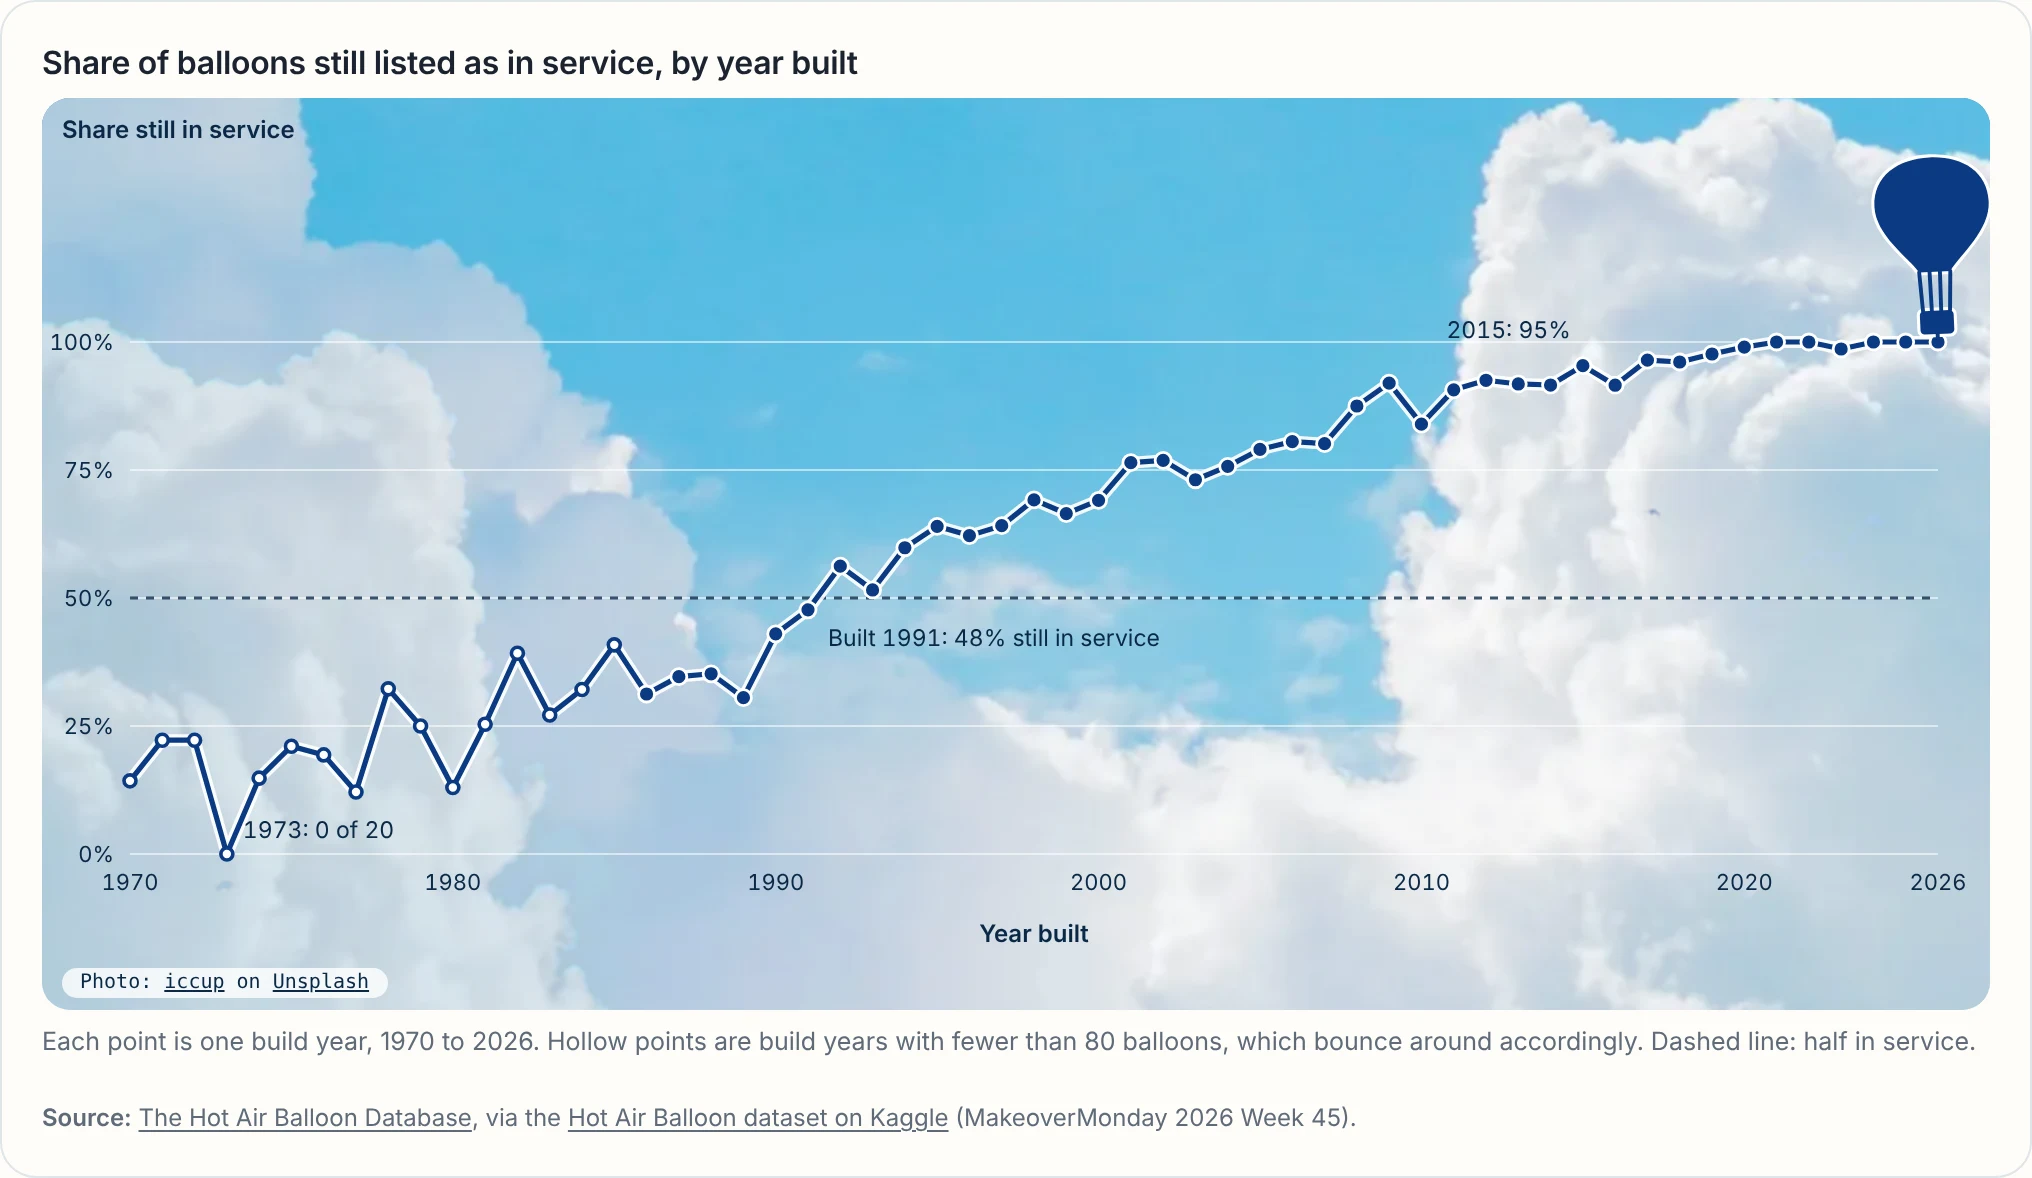
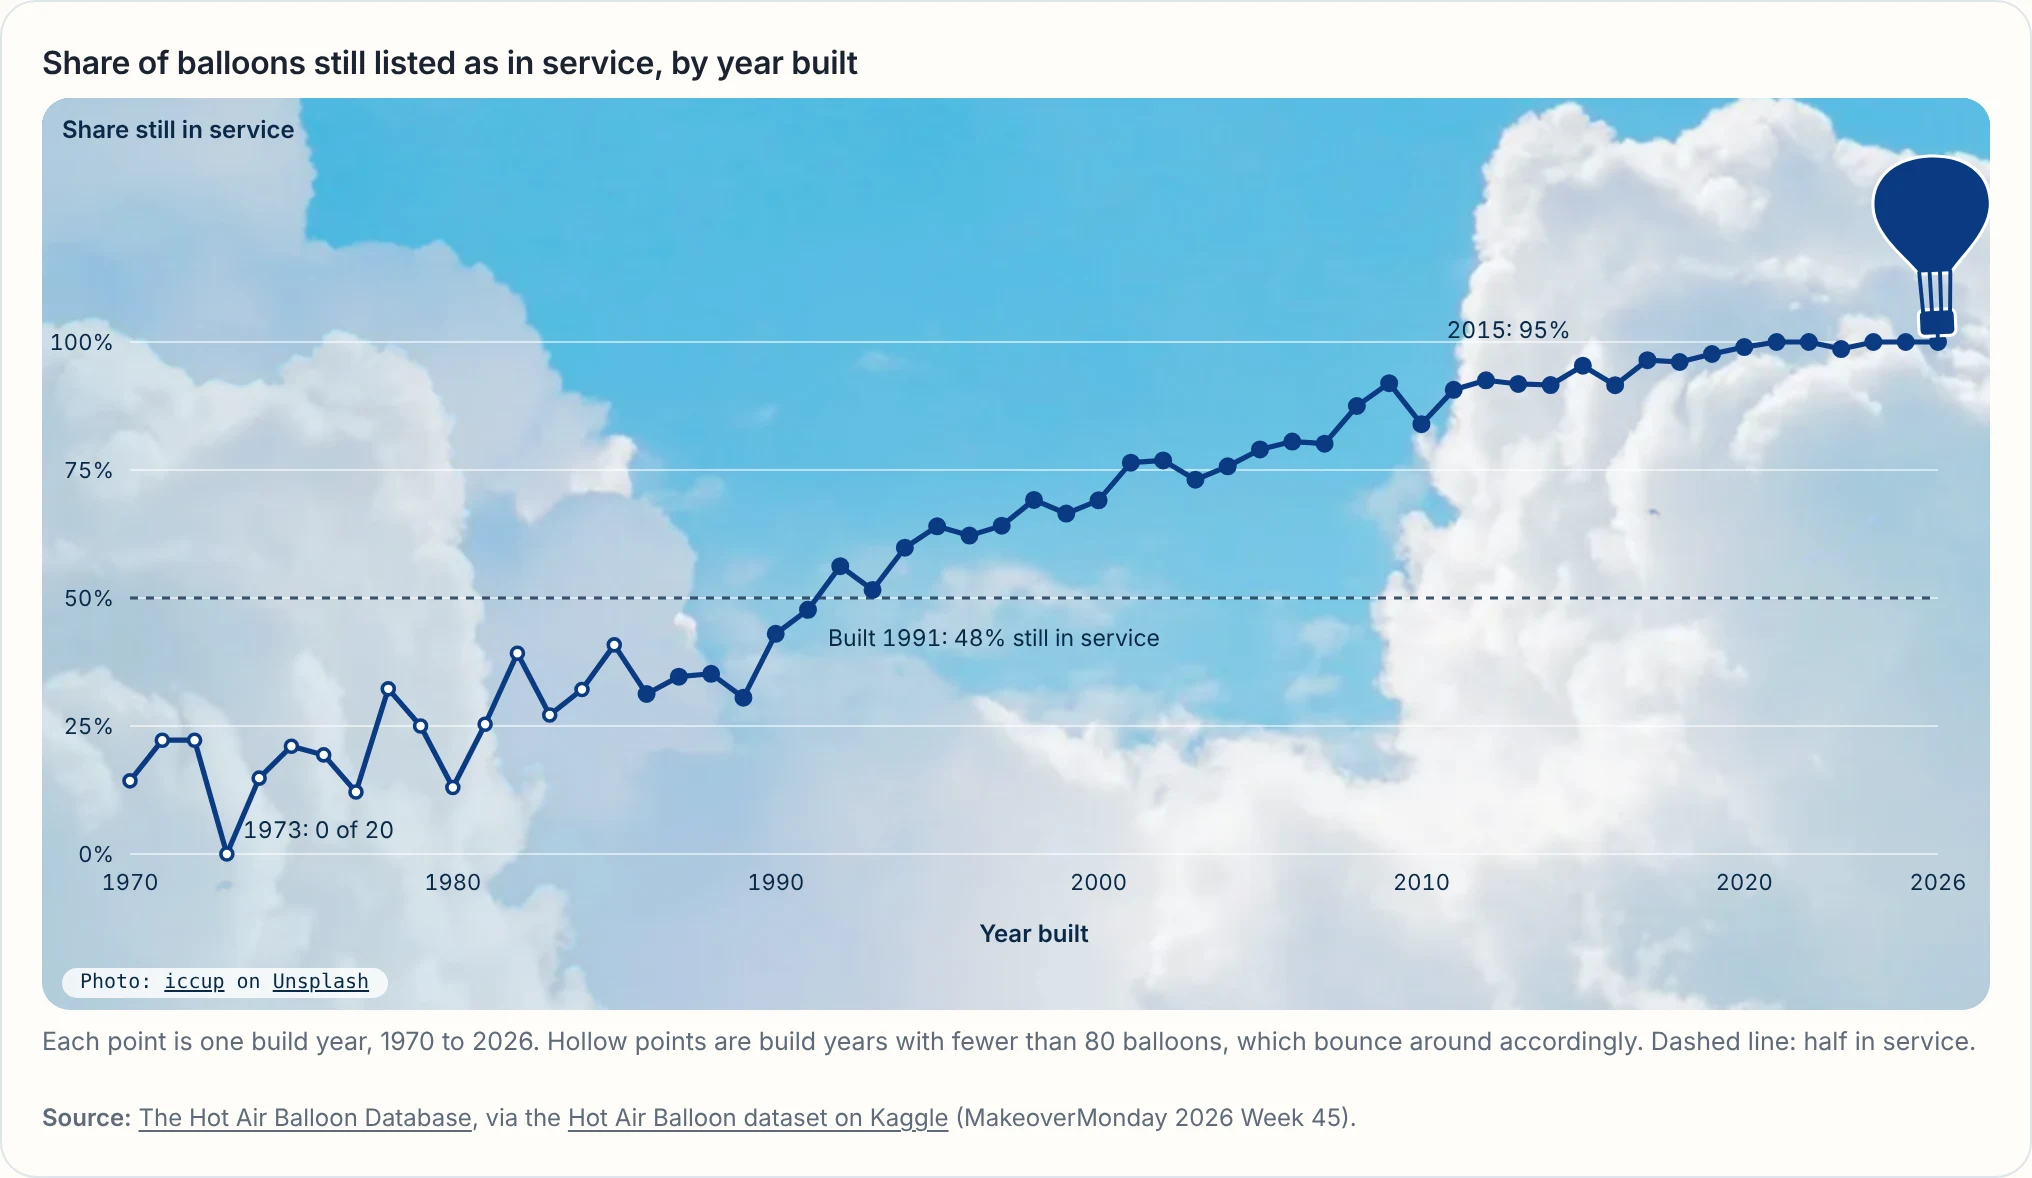
Remove the white outline from the balloon chart line and dots
Claude-Session: https://claude.ai/code/session_01UJ1HEyH6uF5w3cQEo98E3x

diff --git a/hot-air-balloons/index.html b/hot-air-balloons/index.html
@@ -377,10 +377,9 @@ function surv(){const d=D.surv,{svg,w,h,hit,small}=stage("c-surv",456,"Animated 
   (small?[1970,1990,2010,2026]:[1970,1980,1990,2000,2010,2020,2026]).forEach(t=>txt(svg,t,{x:x(t),y:h-B+18,"text-anchor":"middle",class:"tick"}));
   el("line",{x1:L,x2:w-R,y1:y(.5),y2:y(.5),class:"rf"},svg);
   const dd=d.map((p,i)=>(i?"L":"M")+x(p.y)+","+y(p.in/p.n)).join("");
-  const casing=el("path",{d:dd,fill:"none",stroke:"rgba(255,255,255,.9)","stroke-width":6,"stroke-linejoin":"round","stroke-linecap":"round"},svg);
-  const line=el("path",{d:dd,fill:"none",stroke:INK,"stroke-width":2.6,"stroke-linejoin":"round","stroke-linecap":"round"},svg);
+    const line=el("path",{d:dd,fill:"none",stroke:INK,"stroke-width":2.6,"stroke-linejoin":"round","stroke-linecap":"round"},svg);
   const len=line.getTotalLength();
-  const dots=d.map(p=>el("circle",{cx:x(p.y),cy:y(p.in/p.n),r:p.n<80?3:4,fill:p.n<80?"#fff":INK,stroke:p.n<80?INK:"#fff","stroke-width":p.n<80?1.8:1.4,class:"sd"},svg));
+  const dots=d.map(p=>el("circle",{cx:x(p.y),cy:y(p.in/p.n),r:p.n<80?3:4,fill:p.n<80?"#fff":INK,stroke:INK,"stroke-width":p.n<80?1.8:1,class:"sd"},svg));
   const labs=[];const lab=(yr,s,dx,dy,a)=>{const p=d.find(q=>q.y===yr);const t=txt(svg,s.replace("%",pct(p.in/p.n)),{x:x(yr)+dx,y:y(p.in/p.n)+dy,"text-anchor":a,class:"lab"});labs.push([x(yr),t])};
   lab(1991,small?"1991: %":"Built 1991: % still in service",10,18,"start");lab(1973,"1973: 0 of 20",8,-8,"start");lab(2015,"2015: %",-6,-14,"end");
   const bl=skyBalloon(svg,small?.95:1.3);
@@ -390,7 +389,7 @@ function surv(){const d=D.surv,{svg,w,h,hit,small}=stage("c-surv",456,"Animated 
     cur.setAttribute("x1",x(p.y));cur.setAttribute("x2",x(p.y));cur.setAttribute("visibility","visible");
     return `<span class="h">Built ${p.y}</span><span class="m">${pct(p.in/p.n)} in service</span><span class="m">${p.in} of ${p.n} balloons</span>`});
   r.addEventListener("pointerleave",()=>cur.setAttribute("visibility","hidden"));
-  SV.frame=p=>{const Lp=len*p;[casing,line].forEach(e=>{e.style.strokeDasharray=len+" "+(len+2);e.style.strokeDashoffset=len-Lp});
+  SV.frame=p=>{const Lp=len*p;[line].forEach(e=>{e.style.strokeDasharray=len+" "+(len+2);e.style.strokeDashoffset=len-Lp});
     const pt=line.getPointAtLength(Math.max(.01,Lp));dots.forEach((c,i)=>c.classList.toggle("on",d.length&&x(d[i].y)<=pt.x+.5));
     labs.forEach(q=>q[1].classList.toggle("on",q[0]<=pt.x+.5));SV.pt=pt};
   SV.sway=t=>{const pt=SV.pt||line.getPointAtLength(.01),a=3*Math.sin(t/800)+1*Math.sin(t/360),by=1.6*Math.sin(t/520);
